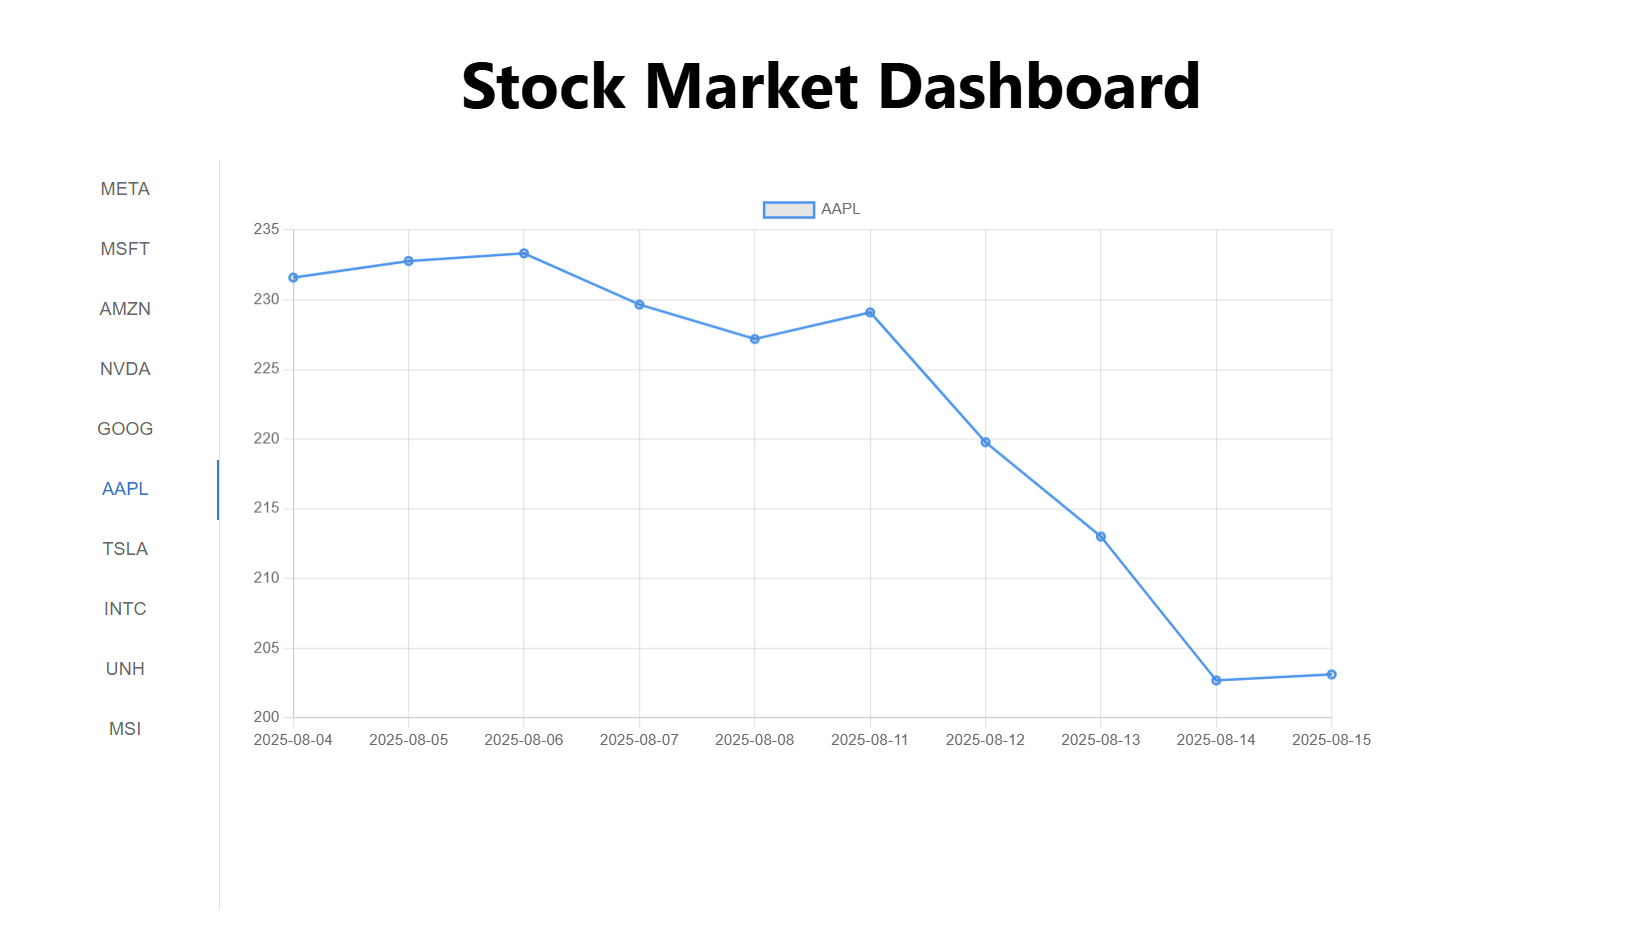
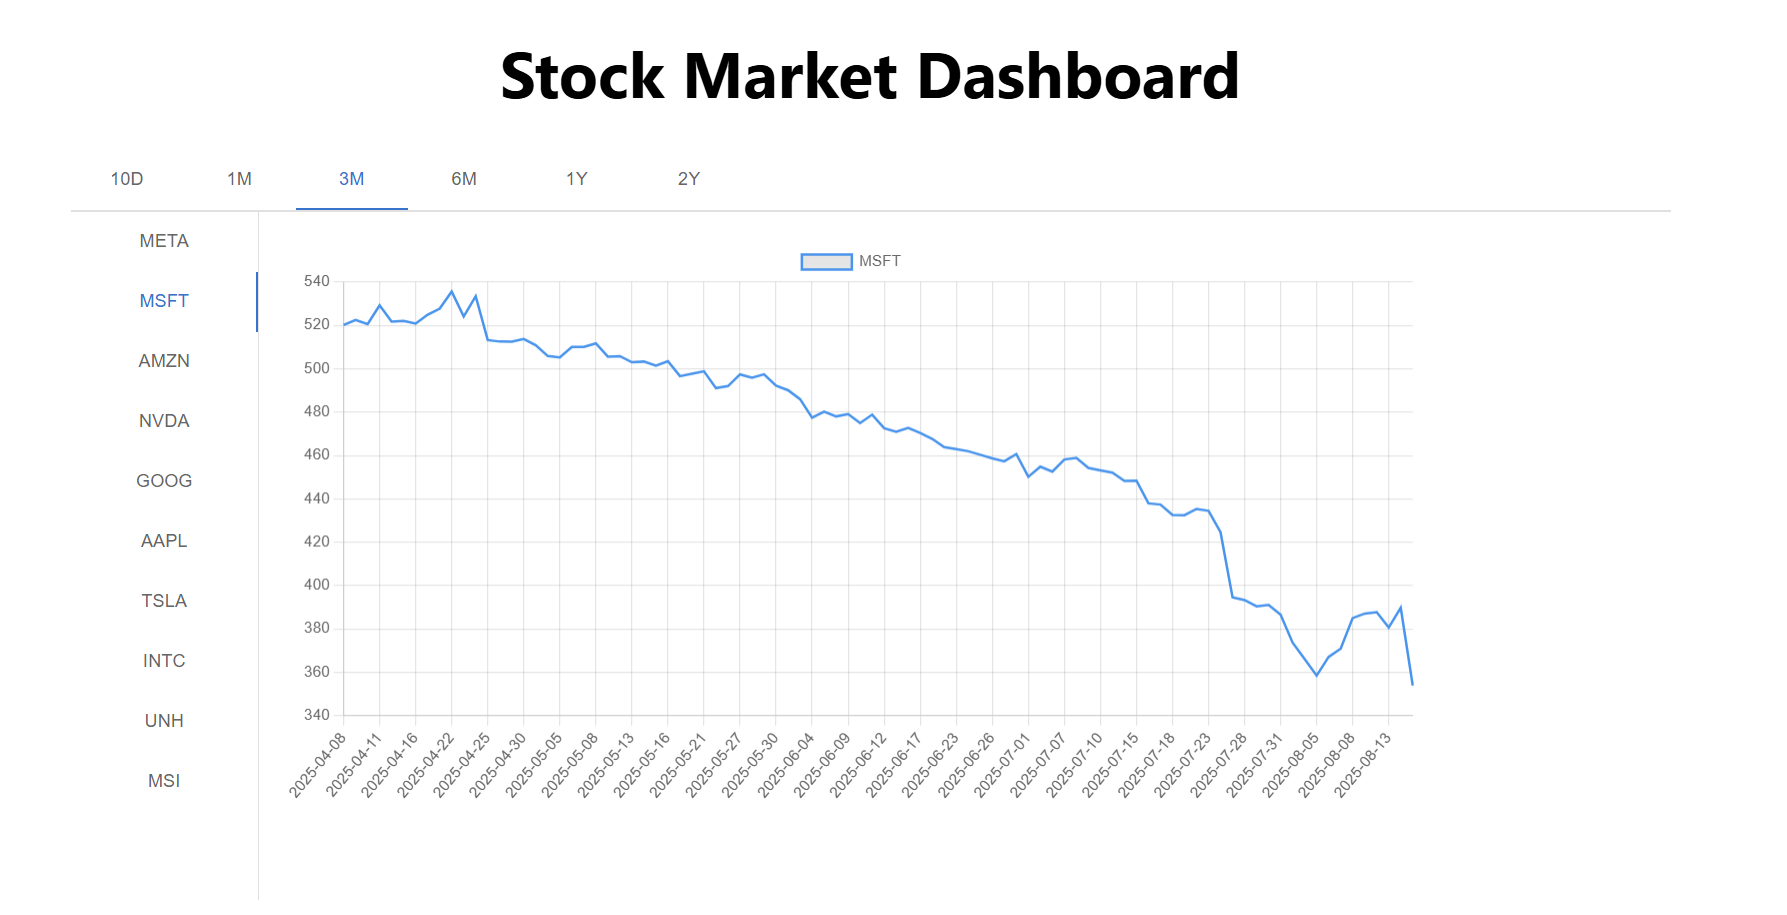
Added Range feature

diff --git a/frontend/src/App.jsx b/frontend/src/App.jsx
@@ -52,8 +52,11 @@ class App extends React.Component {
 		super()
 		this.state = {
 			companies: [],
+			actual_data: {},
 			market_data: {},
 			value: 0,
+			data_range: 10,
+			range: 0,
 		}
 
 		this.api = axios.create({
@@ -62,45 +65,91 @@ class App extends React.Component {
 				access_token: import.meta.env.VITE_API_KEY,
 			},
 			withCredentials: false,
-		});
-
+		})
 	}
 
 	handleChange = (event, newValue) => {
 		this.setState({ value: newValue })
 	}
 
+	handleRange = (event, newValue) => {
+		const ranges = [10, 30, 90, 180, 360, 720]
+		console.log(newValue)
+		const data_newrange = ranges[newValue]
+		console.log(data_newrange)
+
+		this.setState({ range: newValue, data_range: data_newrange }, () =>
+			this.changeActualData()
+		)
+	}
+
+	changeActualData() {
+		const { data_range, companies, market_data } = this.state
+
+		if (!companies.length || !Object.keys(market_data).length) return
+
+		let actual_data = {}
+
+		for (const c of companies) {
+			actual_data[c] = Array.from(market_data[c]).slice(0, data_range)
+		}
+
+		this.setState({ actual_data: actual_data })
+	}
 
 	async componentDidMount() {
-		let cached_data = {}
-		// load companies
 		let res = await this.api.get("/")
 		let companies = res.data.Companies
-		// load data
+
+		let cached_data = {}
 		for (const c of companies) {
-			let company_res = await this.api.get(`/company/${c}`)
+			let company_res = await this.api.get(`/company/${c}?records=max`)
 			cached_data[c] = company_res.data.data
 		}
 
-		this.setState({ companies: companies, market_data: cached_data })
+		this.setState({ companies: companies, market_data: cached_data }, () =>
+			this.changeActualData()
+		)
 	}
 
 	render() {
-		const { market_data, value, companies } = this.state
+		const { market_data, actual_data, value, companies, range } = this.state
 
-		if (!market_data["MSFT"]) {
-			return <div> Loading...</div>
+		if (
+			!companies.length ||
+			!Object.keys(market_data).length ||
+			!Object.keys(actual_data).length
+		) {
+			return <div>Loading...</div>
 		}
 
 		return (
 			<div>
 				<h1>Stock Market Dashboard</h1>
+				<Box>
+					<Tabs
+						variant="scrollable"
+						value={range}
+						onChange={this.handleRange}
+						aria-label="Horizontal tabs"
+						sx={{
+							borderBottom: 2,
+							borderColor: "divider",
+						}}>
+						<Tab key="10D" label="10D" />
+						<Tab key="1M" label="1M" />
+						<Tab key="3M" label="3M" />
+						<Tab key="6M" label="6M" />
+						<Tab key="1Y" label="1Y" />
+						<Tab key="2Y" label="2Y" />
+					</Tabs>
+				</Box>
 				<Box
 					sx={{
 						flexGrow: 1,
 						bgcolor: "background.paper",
 						display: "flex",
-						height: 600,
+						height: 550,
 					}}>
 					<Tabs
 						orientation="vertical"
@@ -113,20 +162,36 @@ class App extends React.Component {
 							borderColor: "divider",
 							minWidth: 150,
 						}}>
-						{
-							companies.map(c => (
-								<Tab key={`tab-${c}`} label={c} />
-							))
-						}
+						{companies.map((c) => (
+							<Tab key={`tab-${c}`} label={c} />
+						))}
 					</Tabs>
 
-					{
-						companies.map((c, i) => (
-							<TabPanel key={`tabpanel-${c}`} value={value} index={i}>
-								<Line width={900} height={450} data={{ labels: market_data[c].map((row) => row.mdate).reverse(), datasets: [{ label: c, data: market_data[c].map((row) => row.close), borderColor: "#2196f3", borderWidth: 2 }] }} />
-							</TabPanel>
-						))
-					}
+					{companies.map((c, i) => (
+						<TabPanel key={`tabpanel-${c}`} value={value} index={i}>
+							<Line
+								width={900}
+								height={450}
+								data={{
+									labels: actual_data[c]
+										.map((row) => row.mdate)
+										.reverse(),
+									datasets: [
+										{
+											label: c,
+											data: actual_data[c].map(
+												(row) => row.close
+											),
+											borderColor: "#2196f3",
+											borderWidth: 2,
+											pointRadius: 0,
+											pointHoverRadius: 0,
+										},
+									],
+								}}
+							/>
+						</TabPanel>
+					))}
 				</Box>
 			</div>
 		)

diff --git a/backend/main.py b/backend/main.py
@@ -118,7 +118,7 @@ limiter = Limiter(key_func=get_remote_address)
 app = FastAPI(lifespan=lifespan, openapi_url=None)
 app.add_middleware(
     CORSMiddleware,
-    allow_origins=["https://sample-stock-market-data.netlify.app", "*"],
+    allow_origins=["https://sample-stock-market-data.netlify.app", "http://localhost:5173", "*"],
     allow_credentials=True,
     allow_methods=["*"],
     allow_headers=["*"],
@@ -138,10 +138,9 @@ def read_item(request: Request, company_data: str, records: str = "10", api_key:
     if company_data not in companies:
         return {"status": "failure"}
 
-    if int(records) <= 0:
-        return {"status": "failure"}
-
     if records.isdigit():
+        if int(records) <= 0:
+            return {"status": "failure"}
         data = market_data[company_data][0:int(records)]
     elif records.lower() == "max":
         data = market_data[company_data]

diff --git a/frontend/README.md b/frontend/README.md
@@ -20,7 +20,7 @@ clean, interactive dashboard.
 
 ### Install dependencies
 
-``` bash
+```bash
 npm install
 ```
 
@@ -28,14 +28,14 @@ npm install
 
 Create a `.env` file from the `example.env` in the root of the frontend project:
 
-``` env
+```env
 VITE_BACKEND_URI=http://localhost:5000
 VITE_API_KEY=your_api_key_here
 ```
 
 ### Run the development server
 
-``` bash
+```bash
 npm run dev
 ```
 
@@ -54,7 +54,7 @@ backend.
 
 ## Build for Production
 
-``` bash
+```bash
 npm run build
 ```
 
